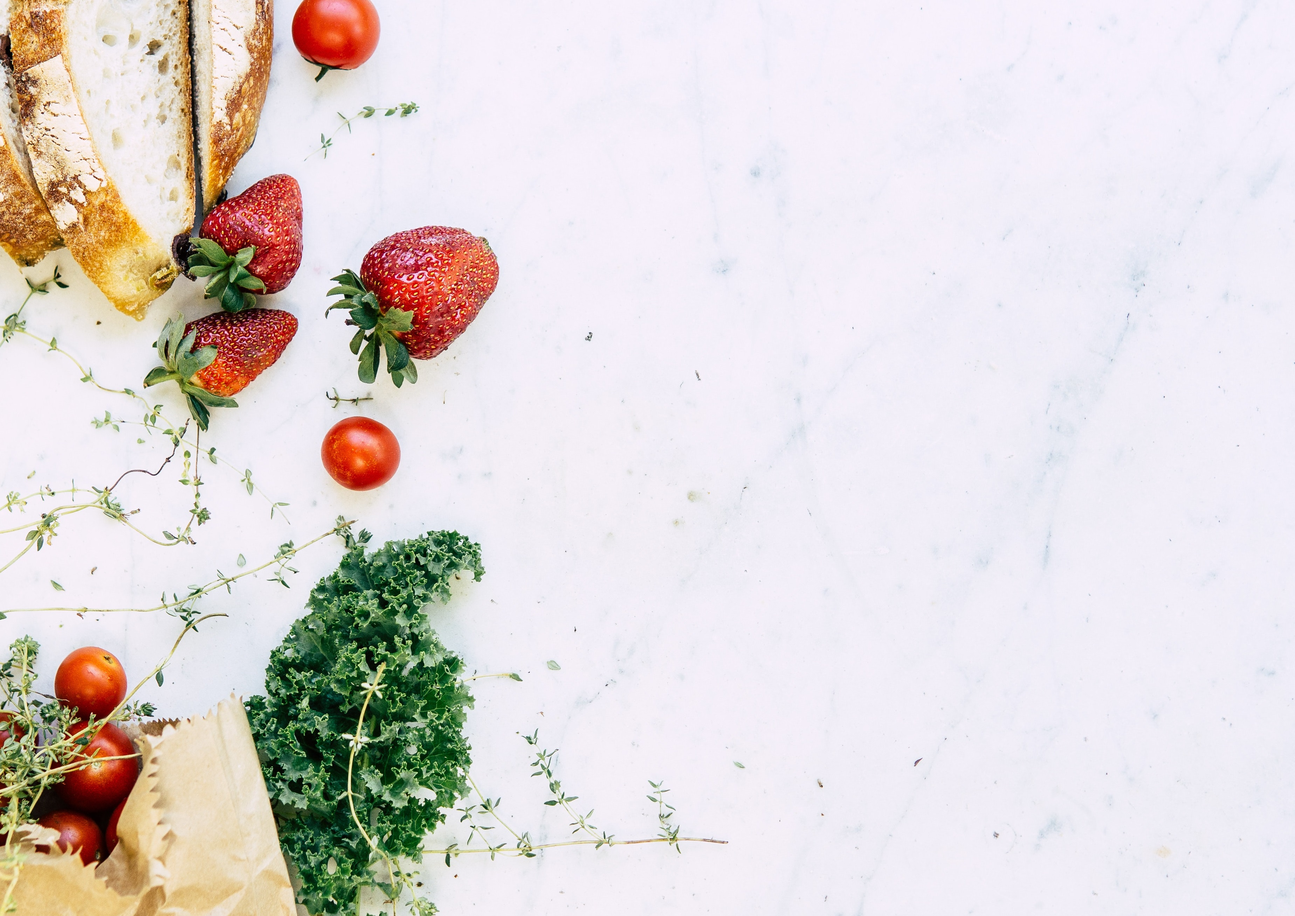
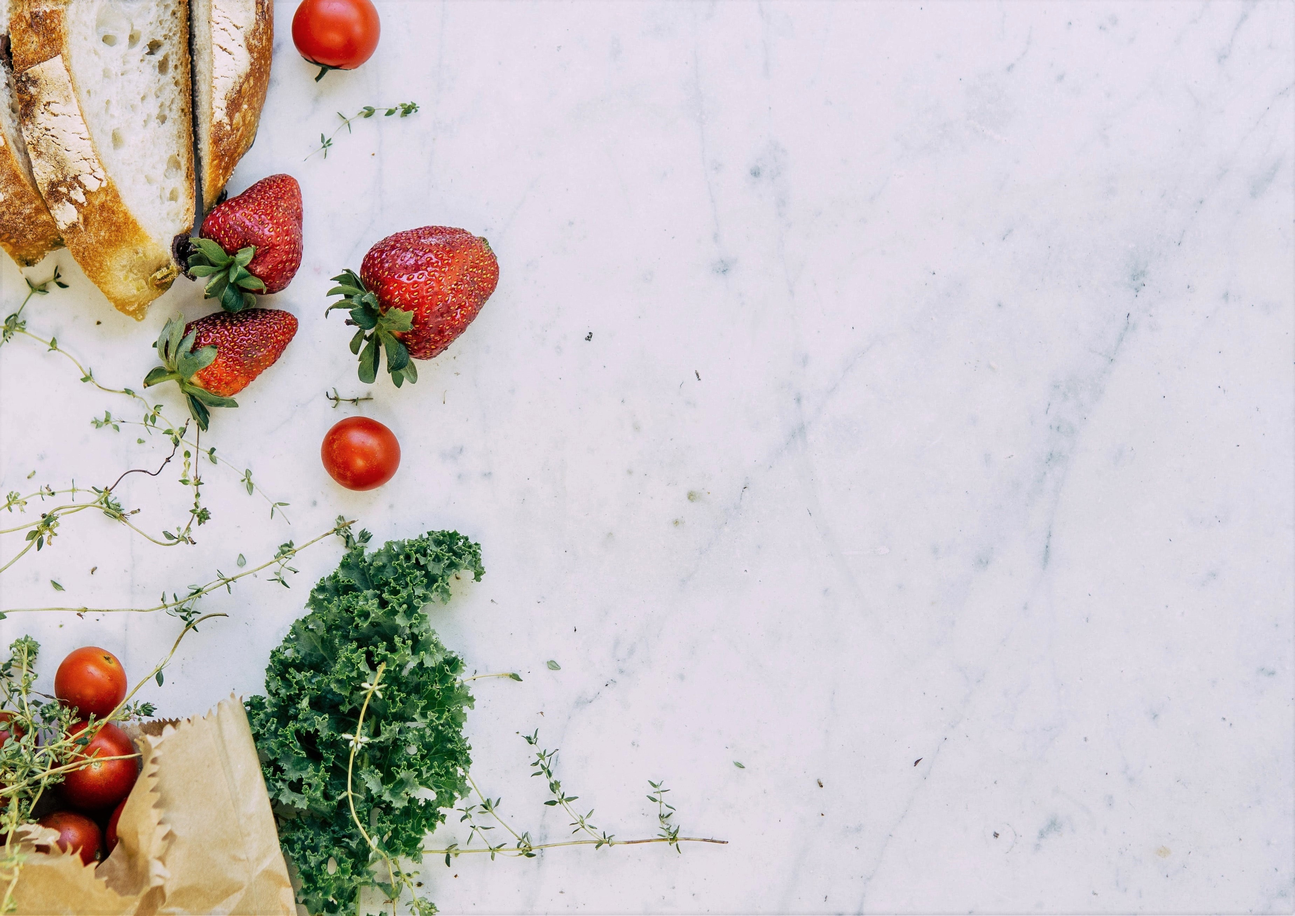
add responsiveness to signup.ejs, adj img contrast

diff --git a/public/css/output.css b/public/css/output.css
@@ -560,6 +560,12 @@ html {
   width: 100%;
 }
 
+@media (min-width: 280px) {
+  .container {
+    max-width: 280px;
+  }
+}
+
 @media (min-width: 400px) {
   .container {
     max-width: 400px;
@@ -1647,10 +1653,6 @@ html {
   background-color: rgb(255 255 255 / var(--tw-bg-opacity));
 }
 
-.bg-white\/30 {
-  background-color: rgb(255 255 255 / 0.3);
-}
-
 .bg-sm-background {
   background-image: url('../imgs/pexels-elle-hughes-sm.jpg');
 }
@@ -1768,18 +1770,6 @@ html {
           backdrop-filter: var(--tw-backdrop-blur) var(--tw-backdrop-brightness) var(--tw-backdrop-contrast) var(--tw-backdrop-grayscale) var(--tw-backdrop-hue-rotate) var(--tw-backdrop-invert) var(--tw-backdrop-opacity) var(--tw-backdrop-saturate) var(--tw-backdrop-sepia);
 }
 
-.backdrop-blur-lg {
-  --tw-backdrop-blur: blur(16px);
-  -webkit-backdrop-filter: var(--tw-backdrop-blur) var(--tw-backdrop-brightness) var(--tw-backdrop-contrast) var(--tw-backdrop-grayscale) var(--tw-backdrop-hue-rotate) var(--tw-backdrop-invert) var(--tw-backdrop-opacity) var(--tw-backdrop-saturate) var(--tw-backdrop-sepia);
-          backdrop-filter: var(--tw-backdrop-blur) var(--tw-backdrop-brightness) var(--tw-backdrop-contrast) var(--tw-backdrop-grayscale) var(--tw-backdrop-hue-rotate) var(--tw-backdrop-invert) var(--tw-backdrop-opacity) var(--tw-backdrop-saturate) var(--tw-backdrop-sepia);
-}
-
-.backdrop-blur-sm {
-  --tw-backdrop-blur: blur(4px);
-  -webkit-backdrop-filter: var(--tw-backdrop-blur) var(--tw-backdrop-brightness) var(--tw-backdrop-contrast) var(--tw-backdrop-grayscale) var(--tw-backdrop-hue-rotate) var(--tw-backdrop-invert) var(--tw-backdrop-opacity) var(--tw-backdrop-saturate) var(--tw-backdrop-sepia);
-          backdrop-filter: var(--tw-backdrop-blur) var(--tw-backdrop-brightness) var(--tw-backdrop-contrast) var(--tw-backdrop-grayscale) var(--tw-backdrop-hue-rotate) var(--tw-backdrop-invert) var(--tw-backdrop-opacity) var(--tw-backdrop-saturate) var(--tw-backdrop-sepia);
-}
-
 .file\:mr-4::file-selector-button {
   margin-right: 1rem;
 }
@@ -1836,16 +1826,27 @@ html {
   color: rgb(53 82 74 / var(--tw-text-opacity));
 }
 
-@media not all and (min-width: 1024px) {
-  .max-lg\:bg-forest-green {
-    --tw-bg-opacity: 1;
-    background-color: rgb(7 61 0 / var(--tw-bg-opacity));
+@media (min-width: 280px) {
+  @media not all and (min-width: 1500px) {
+    .xs\:max-xl\:backdrop-blur-sm {
+      --tw-backdrop-blur: blur(4px);
+      -webkit-backdrop-filter: var(--tw-backdrop-blur) var(--tw-backdrop-brightness) var(--tw-backdrop-contrast) var(--tw-backdrop-grayscale) var(--tw-backdrop-hue-rotate) var(--tw-backdrop-invert) var(--tw-backdrop-opacity) var(--tw-backdrop-saturate) var(--tw-backdrop-sepia);
+              backdrop-filter: var(--tw-backdrop-blur) var(--tw-backdrop-brightness) var(--tw-backdrop-contrast) var(--tw-backdrop-grayscale) var(--tw-backdrop-hue-rotate) var(--tw-backdrop-invert) var(--tw-backdrop-opacity) var(--tw-backdrop-saturate) var(--tw-backdrop-sepia);
+    }
   }
 }
 
 @media (min-width: 400px) {
   .sm\:flex-col {
     flex-direction: column;
+  }
+
+  @media not all and (min-width: 1500px) {
+    .sm\:max-xl\:backdrop-blur-sm {
+      --tw-backdrop-blur: blur(4px);
+      -webkit-backdrop-filter: var(--tw-backdrop-blur) var(--tw-backdrop-brightness) var(--tw-backdrop-contrast) var(--tw-backdrop-grayscale) var(--tw-backdrop-hue-rotate) var(--tw-backdrop-invert) var(--tw-backdrop-opacity) var(--tw-backdrop-saturate) var(--tw-backdrop-sepia);
+              backdrop-filter: var(--tw-backdrop-blur) var(--tw-backdrop-brightness) var(--tw-backdrop-contrast) var(--tw-backdrop-grayscale) var(--tw-backdrop-hue-rotate) var(--tw-backdrop-invert) var(--tw-backdrop-opacity) var(--tw-backdrop-saturate) var(--tw-backdrop-sepia);
+    }
   }
 
   @media not all and (min-width: 1024px) {
@@ -1880,11 +1881,6 @@ html {
     background-image: url('../imgs/pexels-elle-hughes-lg.jpg');
   }
 
-  .lg\:invert {
-    --tw-invert: invert(100%);
-    filter: var(--tw-blur) var(--tw-brightness) var(--tw-contrast) var(--tw-grayscale) var(--tw-hue-rotate) var(--tw-invert) var(--tw-saturate) var(--tw-sepia) var(--tw-drop-shadow);
-  }
-
   .lg\:backdrop-blur-xs {
     --tw-backdrop-blur: blur(1px);
     -webkit-backdrop-filter: var(--tw-backdrop-blur) var(--tw-backdrop-brightness) var(--tw-backdrop-contrast) var(--tw-backdrop-grayscale) var(--tw-backdrop-hue-rotate) var(--tw-backdrop-invert) var(--tw-backdrop-opacity) var(--tw-backdrop-saturate) var(--tw-backdrop-sepia);
@@ -1892,16 +1888,6 @@ html {
   }
 
   @media not all and (min-width: 1500px) {
-    .lg\:max-xl\:bg-forest-green {
-      --tw-bg-opacity: 1;
-      background-color: rgb(7 61 0 / var(--tw-bg-opacity));
-    }
-
-    .lg\:max-xl\:bg-\[\#6B9E90\] {
-      --tw-bg-opacity: 1;
-      background-color: rgb(107 158 144 / var(--tw-bg-opacity));
-    }
-
     .lg\:max-xl\:bg-\[\#B5CFC8\] {
       --tw-bg-opacity: 1;
       background-color: rgb(181 207 200 / var(--tw-bg-opacity));

diff --git a/tailwind.config.js b/tailwind.config.js
@@ -3,6 +3,7 @@ module.exports = {
   content: ["./views/*.ejs", "./views/partials/*.ejs"],
   theme: {
     screens: {
+      xs: "280px",
       sm: "400px",
       md: "800px",
       lg: "1024px",
